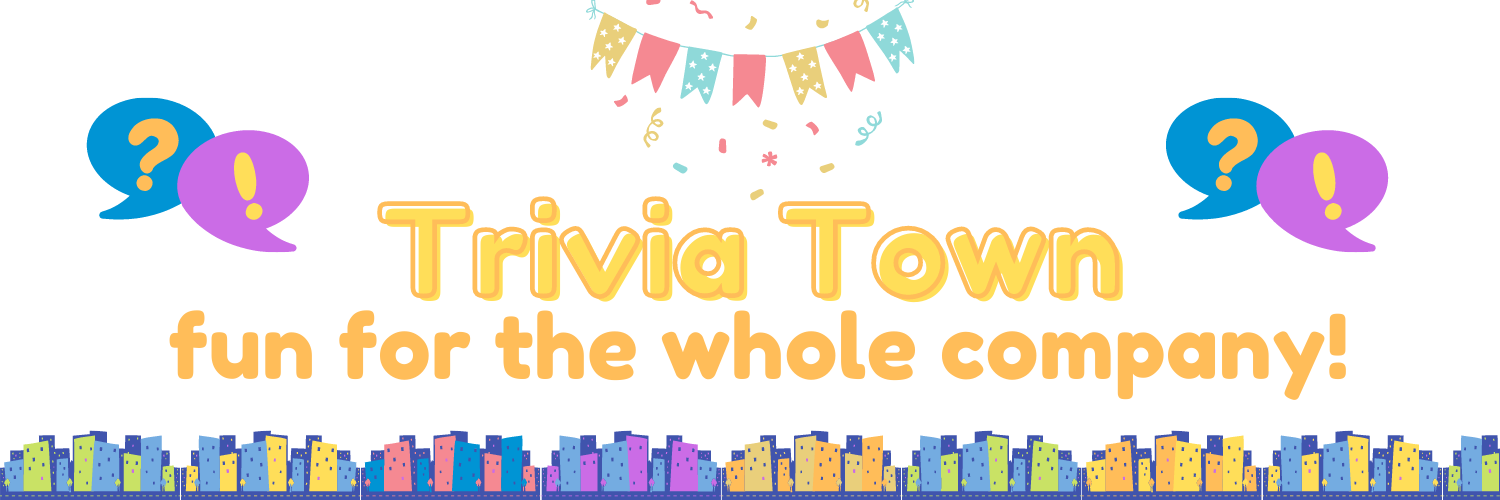
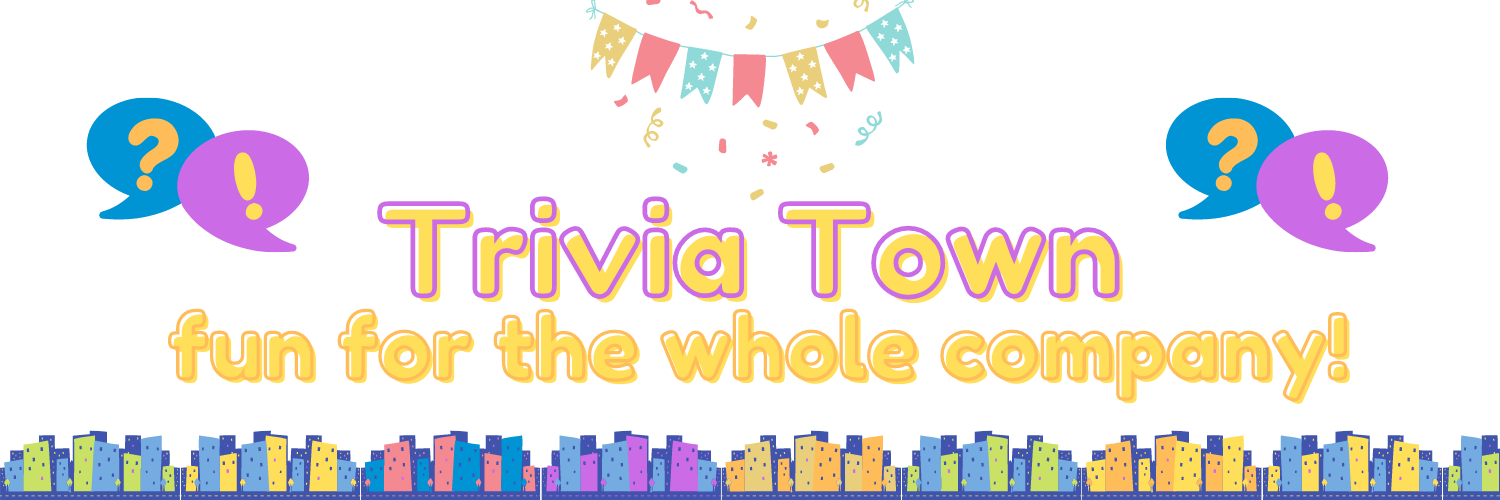
more styling

Changed region(s): [[0.092, 0.39, 0.92, 0.81]]

diff --git a/src/screens/Setup.jsx b/src/screens/Setup.jsx
@@ -18,7 +18,7 @@ export function Setup({ baseUrl }) {
   return (
     <div className={"Setup--container"}>
       <header>
-        <h2 className="animate__animated animate__rubberBand">Welcome to Trivia Town! Howdy folks!</h2>
+        <h2 className="animate__animated animate__rubberBand">Howdy folks! Welcome to Trivia Town!</h2>
         <p>Trivia Town has partnered with Loom video recording software to bring you a brand new way to play trivia games with your coworkers and friends!</p>
         <p>What makes this game different? You do! Every person that you invite to the party will have to pre-record one of the special trivia questions we randomly select for you. Keep it classy or really have fun with it - it’s up to you! All the recorded questions are added to your party, Trivia Party! </p>
         <h3 className="animate__animated animate__shakeY animate__delay-2s">Setting up a New Trivia Town Party is as easy as 1, 2, 3, 4</h3>
@@ -29,7 +29,7 @@ export function Setup({ baseUrl }) {
             Step 1
           </div>
           <div className="Setup--step-description">
-            <p>Set-up your unique Trivia Party ID and management page.</p>
+            <p className="color__purple font__bold">Set-up your unique Trivia Party ID and management page.</p>
             <p>As a party host you will have access to everything you need to plan your fun-tastic trivia party!</p>
           </div>
         </div>
@@ -38,8 +38,7 @@ export function Setup({ baseUrl }) {
             Step 2
           </div>
           <div className="Setup--step-description">
-            <p>Send out the Record Video Link invite to all the trivia-masterminds you want to join in.</p>
-            <p>The same link goes out to everyone but each question will be different.</p>
+            <p><span className="color__blue font__bold">Send out the Record Video Link invite</span> to all the trivia-masterminds you want to join in.</p>
             <p>We have it all, from science and Hell’s Kitchen to Beyonce and the fear of bubble-wrap!</p>
           </div>
         </div>
@@ -48,7 +47,7 @@ export function Setup({ baseUrl }) {
             Step 3
           </div>
           <div className="Setup--step-description">
-            <p>Once enough of your party folks record their individual videos using Loom, send out the Play Trivia Town Party Link to your friends and colleagues.</p>
+            <p>Once enough of your party folks record their individual videos using Loom, <span className="color__purple font__bold">send out the Play Trivia Town Party Link</span> to your friends and colleagues.</p>
             <p>Next stop? Trivia Town!</p>
           </div>
         </div>
@@ -57,7 +56,7 @@ export function Setup({ baseUrl }) {
             Step 4
           </div>
           <div className="Setup--step-description">
-            <p>Enjoy the sweet taste of Trivia Town success by watching the Party Scoreboard. Now get Looming!</p>
+            <p><span className="color__blue font__bold">Enjoy the sweet taste of Trivia Town</span> success by watching the Party Scoreboard. Now get Looming!</p>
           </div>
         </div>
         <div className={"Setup--cta"}>

diff --git a/src/screens/Setup.css b/src/screens/Setup.css
@@ -1,30 +1,22 @@
 .Setup--container header {
+    padding: 1rem;
     text-align: center;
 }
 
 .Setup--container header h2 {
-    font-size: 36pt;
+    font-size: 30pt;
 }
 
 .Setup--container header h3 {
-    font-size: 32pt;
+    font-size: 20pt;
+    margin-top: 3rem;
 }
 
 .Setup--container header p {
-    font-size: 16pt;
-    line-height: 1.5em;
-}
-
-.Setup--button {
-    background: var(--color-purple);
-    border: 1px solid var(--color-light-purple);
-    border-radius: 5px;
-    padding: 32px;
-    margin: 5px;
-    font-size: 24pt;
-    font-family: 'Fredoka One', sans-serif;
-    color: var(--color-orange);
-    cursor: pointer;
+    font-size: 14pt;
+    line-height: 2rem;
+    margin: 1rem;
+    width: 50%;
 }
 
 .Setup--steps-container {
@@ -35,55 +27,67 @@
 }
 
 .Setup--step {
-    border: 2px solid var(--color-yellow);
-    background-color: var(--color-blue);
+    background-color: var(--color-yellow);
+    border-radius: 12px;
+    border: 2px solid var(--color-light-purple);
+    box-shadow: 1px 5px 11px #aaa;
     display: inline-flex;
     flex-direction: row;
-    border-radius: 12px;
     margin-bottom: 20pt;
-    box-shadow: 1px 5px 11px var(--color-yellow);
+    width: 600px;
 }
 
 .Setup--step-label {
-    font-family: var(--font-fun);
-    font-size: 32pt;
-    padding: 4pt;
-    margin: 16pt;
     flex-basis: 12%;
     flex-grow: 1;
+    font-family: var(--font-fun);
+    font-size: 28pt;
+    margin: 16pt;
+    padding: 4pt;
 }
 
-.Setup--step:nth-child(1) .Setup--step-label {
-    color: var(--color-yellow);
+.Setup--step:nth-child(1) {
+    color: var(--color-blue);
 }
 
-.Setup--step:nth-child(2) .Setup--step-label {
-    color: var(--color-green);
+.Setup--step:nth-child(2) {
+    color: var(--color-light-purple);
 }
 
-.Setup--step:nth-child(3) .Setup--step-label {
-    color: var(--color-yellow);
+.Setup--step:nth-child(3) {
+    color: var(--color-blue);
 }
 
-.Setup--step:nth-child(4) .Setup--step-label {
-    color: var(--color-green);
+.Setup--step:nth-child(4) {
+    color: var(--color-light-purple);
 }
 
 .Setup--step-description {
-    border-left: 2px solid var(--color-yellow);
-    color: #eee;
-    font-family: var(--font-sans);
-    font-size: 18pt;
-    padding: 8pt;
-    flex-grow: 1;
+    color: var(--color-purple);
     flex-basis: 60%;
+    flex-grow: 1;
+    font-family: var(--font-sans);
+    font-size: 16pt;
+    padding: 0.5rem;
 }
 
 .Setup--step-description p {
-    padding: 1pt;
-    margin: 5pt;
+    margin: 1rem;
 }
 
 .Setup--cta {
     align-self: center;
+}
+
+.Setup--button {
+    background: var(--color-purple);
+    border-radius: 5px;
+    border: 5px solid var(--color-orange);
+    box-shadow: 0 5px 11px #111;
+    color: var(--color-orange);
+    cursor: pointer;
+    font-family: 'Fredoka One', sans-serif;
+    font-size: 22pt;
+    margin: 5px;
+    padding: 32px;
 }

diff --git a/src/App.js b/src/App.js
@@ -18,33 +18,33 @@ function App() {
   return (
     <Router>
       <div className="App">
-        <header className="App-header">
-          <img height="300" alt="" src={headerImage} />
+        <header className="App--header">
+          <img height="350" alt="" src={headerImage} />
         </header>
         <section className="App--content">
-        <Switch>
-          <Route path="/invite/:companyId">
-            <Screen.Invite />
-          </Route>
-          <Route path="/play/:companyId">
-            <Screen.Play />
-          </Route>
-          <Route path="/scoreboard/:companyId">
-            <Screen.Scoreboard />
-          </Route>
-          <Route path="/setup/:companyId">
-            <Screen.Manage baseUrl={baseUrl} />
-          </Route>
-          <Route path="/">
-            <Screen.Setup baseUrl={baseUrl} />
-          </Route>
-        </Switch>
+          <Switch>
+            <Route path="/invite/:companyId">
+              <Screen.Invite />
+            </Route>
+            <Route path="/play/:companyId">
+              <Screen.Play />
+            </Route>
+            <Route path="/scoreboard/:companyId">
+              <Screen.Scoreboard />
+            </Route>
+            <Route path="/setup/:companyId">
+              <Screen.Manage baseUrl={baseUrl} />
+            </Route>
+            <Route path="/">
+              <Screen.Setup baseUrl={baseUrl} />
+            </Route>
+          </Switch>
         </section>
         <footer className="App--footer">
           <ul className="App--footer-nav">
             <li><a href={"/about"}>About</a></li>
             <li><a href={"/about"}>Contact Us</a></li>
-            <li><a href={"/about"}>Support</a></li>
+            <li><a href={"/about"}>Customer Support</a></li>
           </ul>
         </footer>
       </div>

diff --git a/src/index.css b/src/index.css
@@ -1,6 +1,6 @@
 :root {
   --color-red: rgb(245, 137, 146);
-  --color-teal: rgb(112, 217, 220);
+  --color-teal: rgb(164, 227, 229);
   --color-yellow: rgb(255, 222, 89);
   --color-purple: rgb(53, 57, 154);
   --color-light-purple: rgb(203, 108, 230);
@@ -11,15 +11,32 @@
   --font-sans: 'Lato', sans-serif;
 }
 
-body {
+.color__blue {
+  color: var(--color-blue);
+}
+
+.color__purple {
+  color: var(--color-light-purple);
+}
+
+.font__bold {
+  font-weight: bold;
+}
+
+* {
   margin: 0;
+  padding: 0;
+  box-sizing: border-box;
+}
+
+body {
   font-family: -apple-system, BlinkMacSystemFont, 'Segoe UI', 'Roboto', 'Oxygen',
     'Ubuntu', 'Cantarell', 'Fira Sans', 'Droid Sans', 'Helvetica Neue',
     sans-serif;
   -webkit-font-smoothing: antialiased;
   -moz-osx-font-smoothing: grayscale;
   background-color: white;
-  background: linear-gradient(white, #eeeeee, var(--color-teal));
+  background: linear-gradient(white 15%, var(--color-teal));
   color: var(--color-purple);
 }
 

diff --git a/src/App.css b/src/App.css
@@ -7,16 +7,17 @@
 }
 
 .App--header {
-
+    margin-bottom: 0.5rem;
 }
 
 .App--content {
-
+    margin-left: 2rem;
+    margin-right: 2rem;
 }
 
 .App--footer {
-    margin-top: 100pt;
-    margin-bottom: 25pt;
+    margin-top: 15rem;
+    margin-bottom: 3rem;
 }
 
 .App--footer ul {
@@ -30,5 +31,11 @@
 
 .App--footer a {
     text-decoration: none;
+    font-weight: bold;
     color: #111111;
+}
+
+.App--footer li + li a:before {
+    content: ' | ';
+    padding: 1rem;
 }
